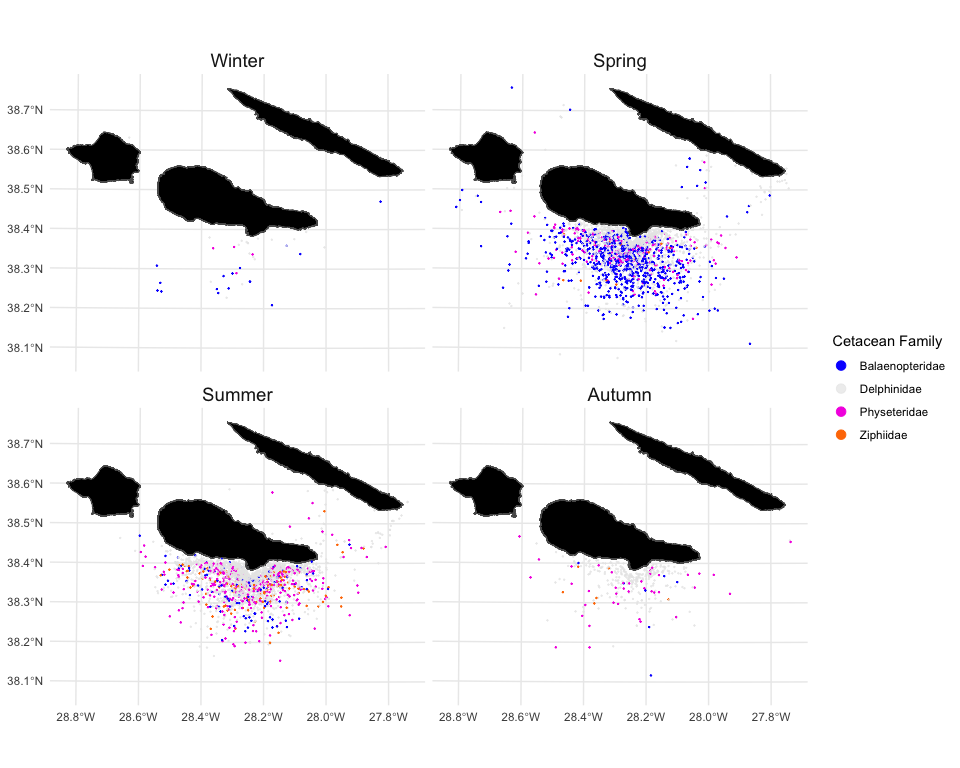
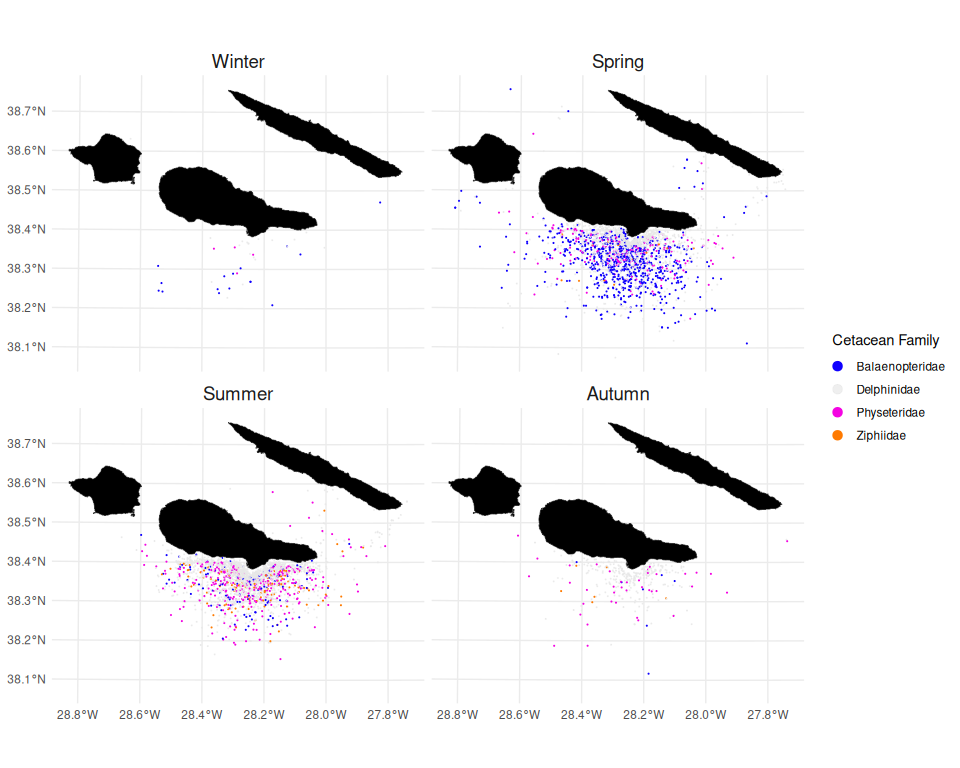
Update README

diff --git a/README.md b/README.md
@@ -52,7 +52,7 @@ bkw.sightings
 The `bkw_occurrence` dataset is derived from `presences_sf2` from
 package `azores.rorquals` through the following steps:
 
-1.  Only observations from the `rps` dataset was keeped
+1.  Only observations from the `rps` dataset were kept
 
 2.  Observations with missing (`NA`) values for any climate or
     topographical variable are removed.
@@ -127,4 +127,4 @@ bkw_occurrence |>
         strip.text = element_text(size = 14))
 ```
 
-<img src="man/figures/README-unnamed-chunk-2-1.png" alt="" width="100%" />
+<img src="man/figures/README-unnamed-chunk-2-1.png" width="100%" />